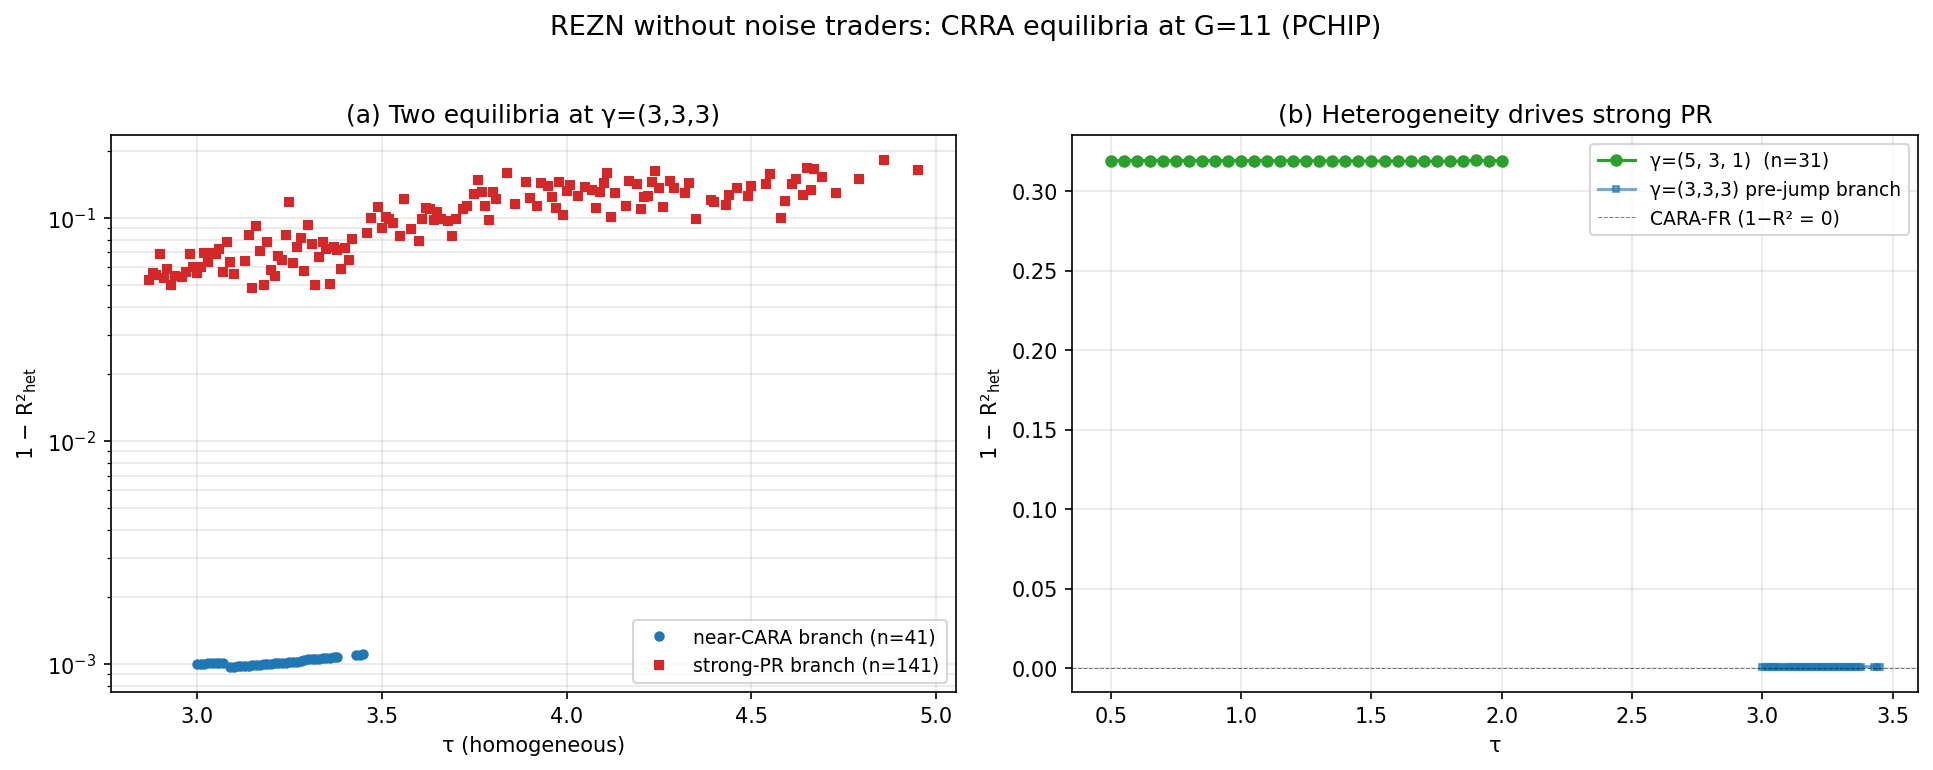
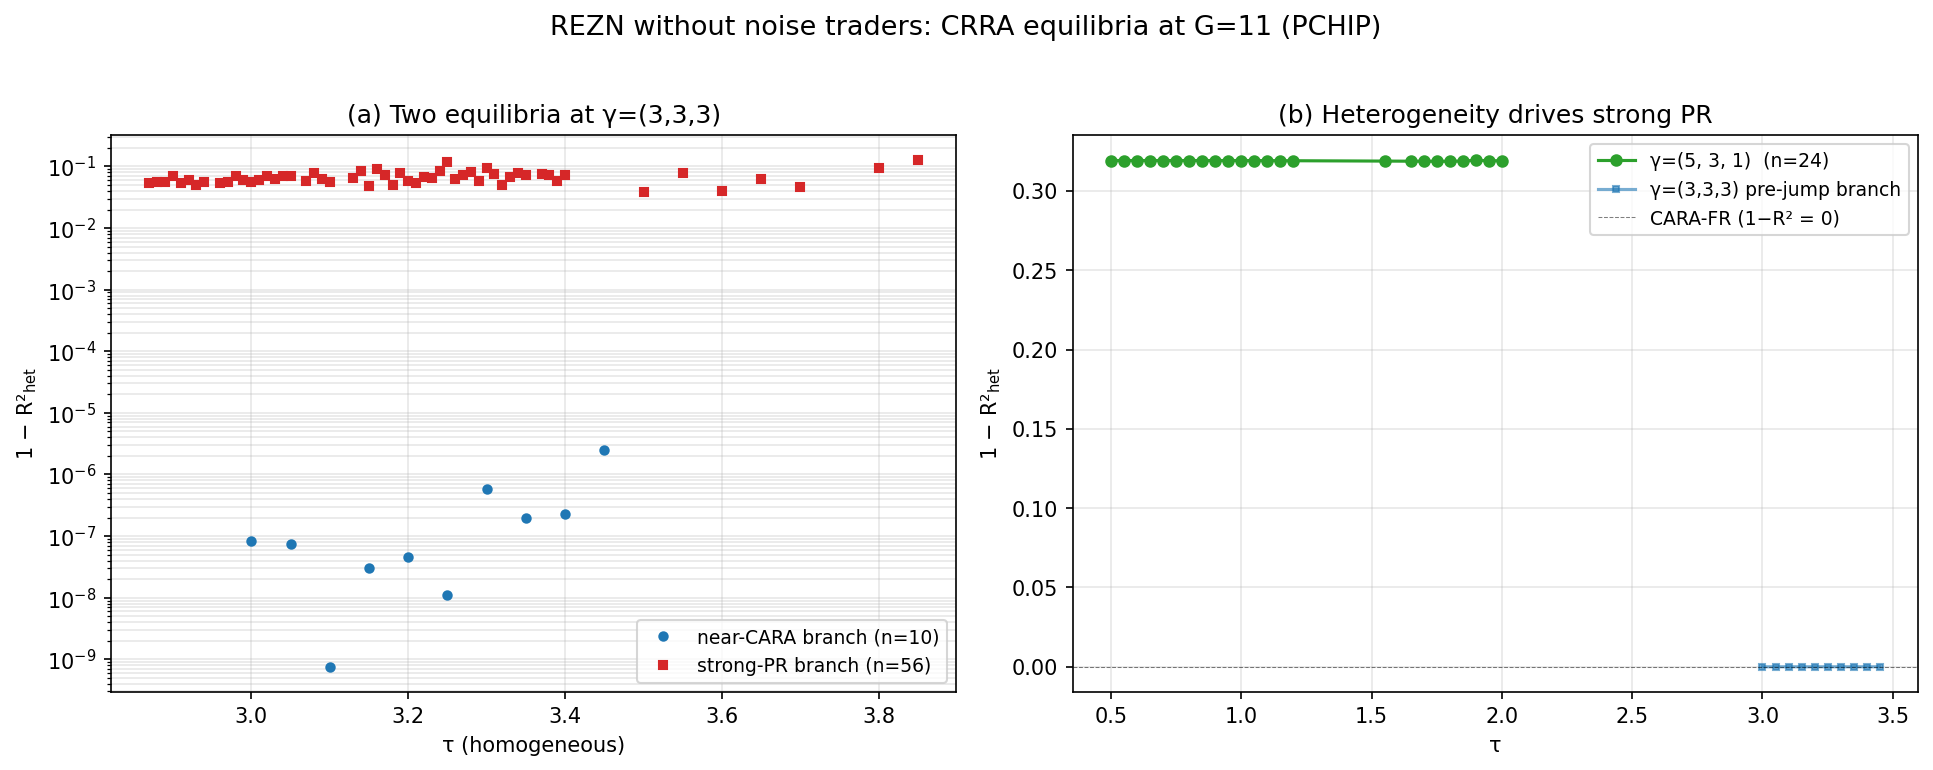
G=9 logit-PCHIP plots: pre-jump truly ≈ CARA-FR (1-R²~1e-7); post-jump real PR
Plots now include rows with Finf ≤ 1e-3, capturing the post-jump branch even when it doesn't meet the F_TOL=1e-7 strict acceptance.

diff --git a/python/plot_paper.py b/python/plot_paper.py
@@ -26,7 +26,12 @@ def load_homo3(path):
     with open(path) as f:
         for r in csv.DictReader(f):
             try:
-                if int(r["converged"]) != 1: continue
+                # Accept rows that solved to reasonable precision; conv=1 is
+                # F_TOL-strict but post-jump rows often plateau at 1e-5.
+                try:
+                    if float(r["Finf"]) > 1e-3: continue
+                except Exception:
+                    if int(r["converged"]) != 1: continue
                 if not (abs(float(r["gamma_1"])-3.0)<1e-9
                         and abs(float(r["gamma_2"])-3.0)<1e-9
                         and abs(float(r["gamma_3"])-3.0)<1e-9): continue
@@ -43,7 +48,12 @@ def load_asym(path):
     with open(path) as f:
         for r in csv.DictReader(f):
             try:
-                if int(r["converged"]) != 1: continue
+                # Accept rows that solved to reasonable precision; conv=1 is
+                # F_TOL-strict but post-jump rows often plateau at 1e-5.
+                try:
+                    if float(r["Finf"]) > 1e-3: continue
+                except Exception:
+                    if int(r["converged"]) != 1: continue
                 out.append((float(r["tau_1"]), float(r["oneR2_het"]),
                             float(r["pr_gap"]), float(r["p_star"])))
             except Exception:
